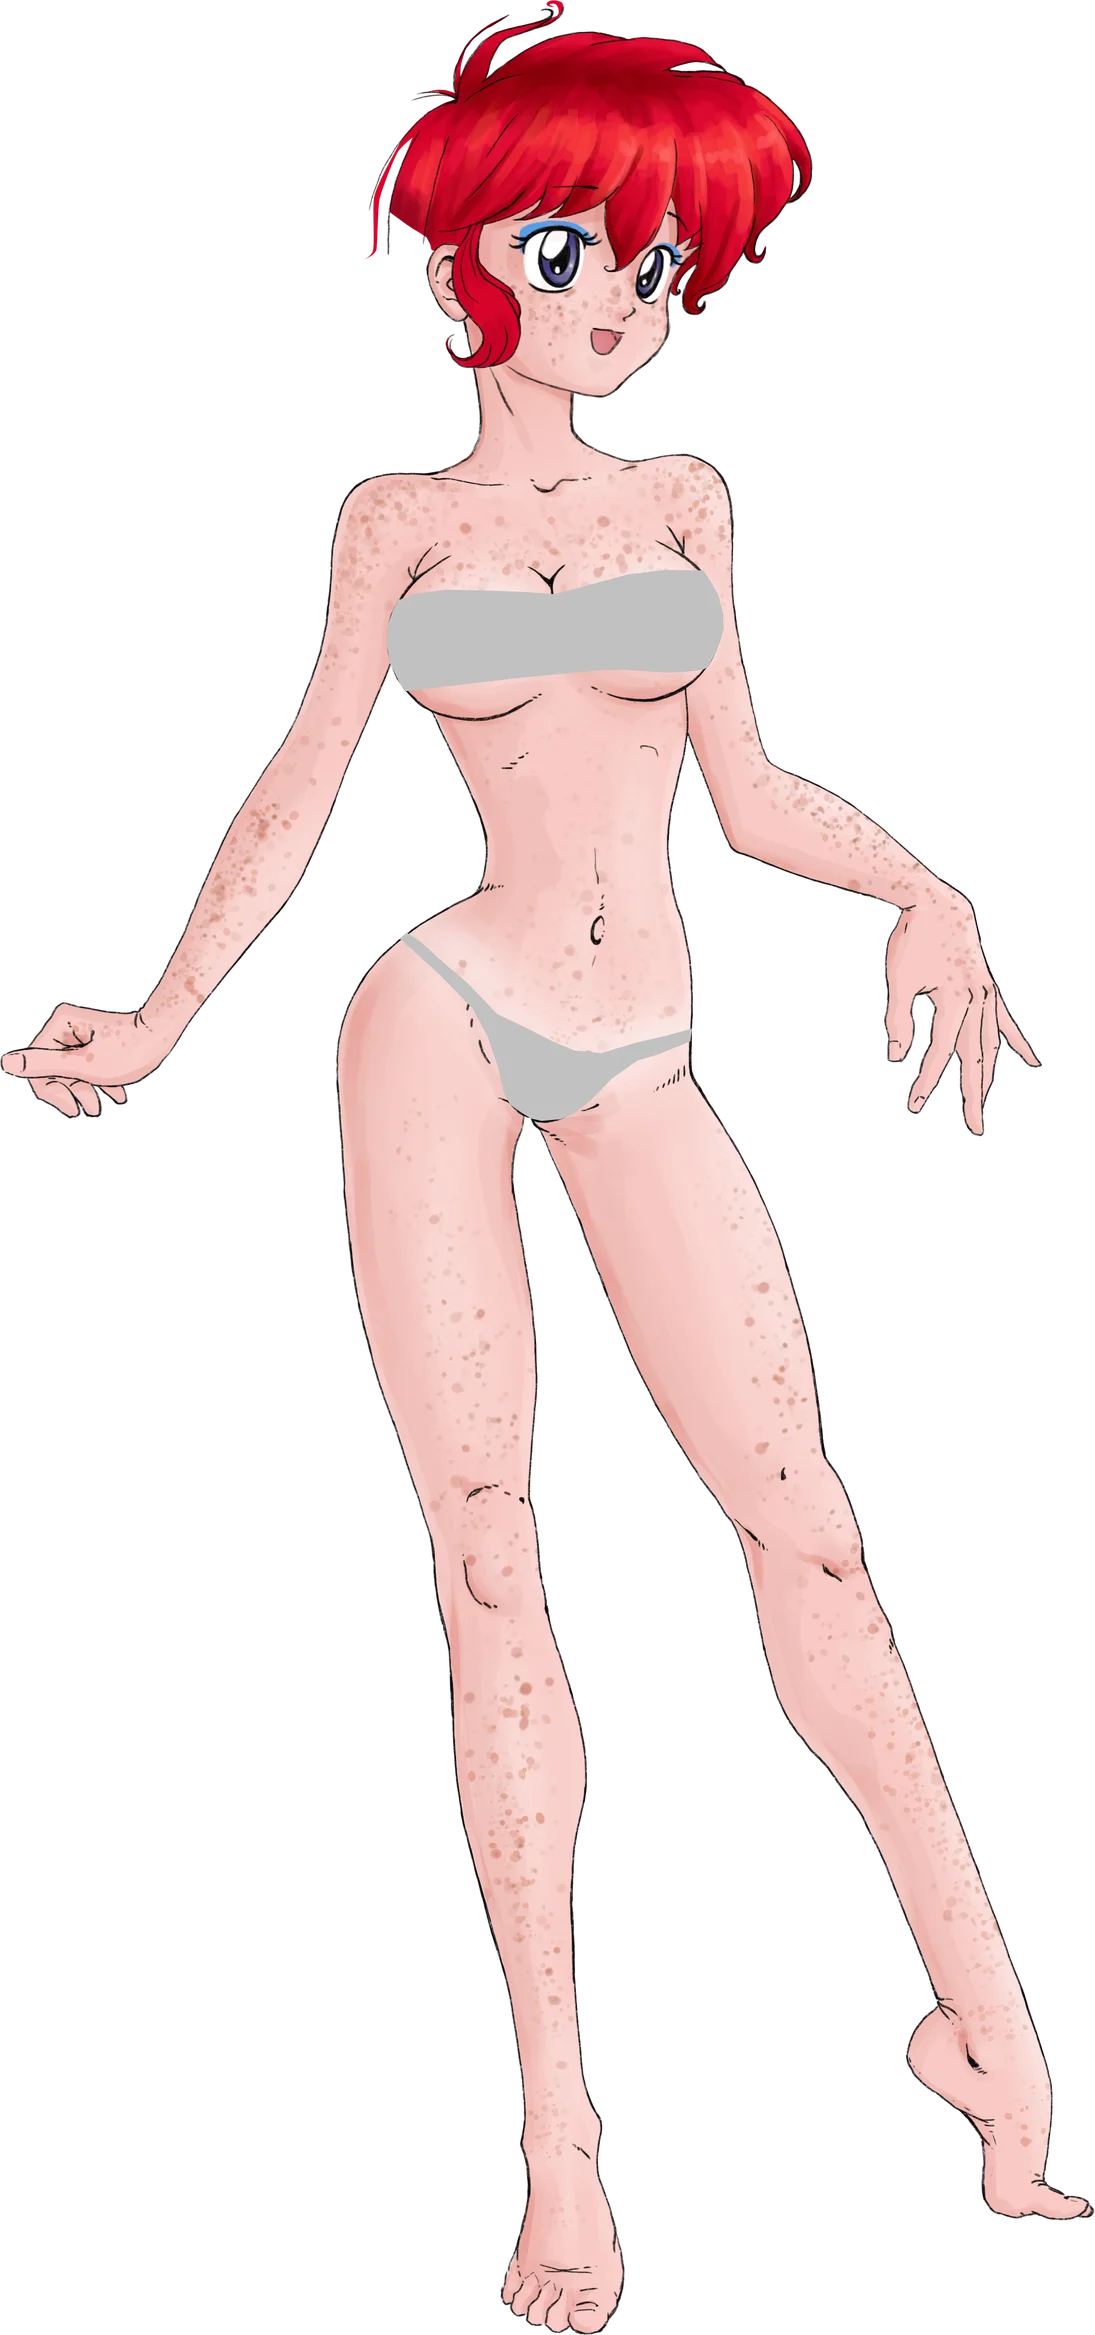
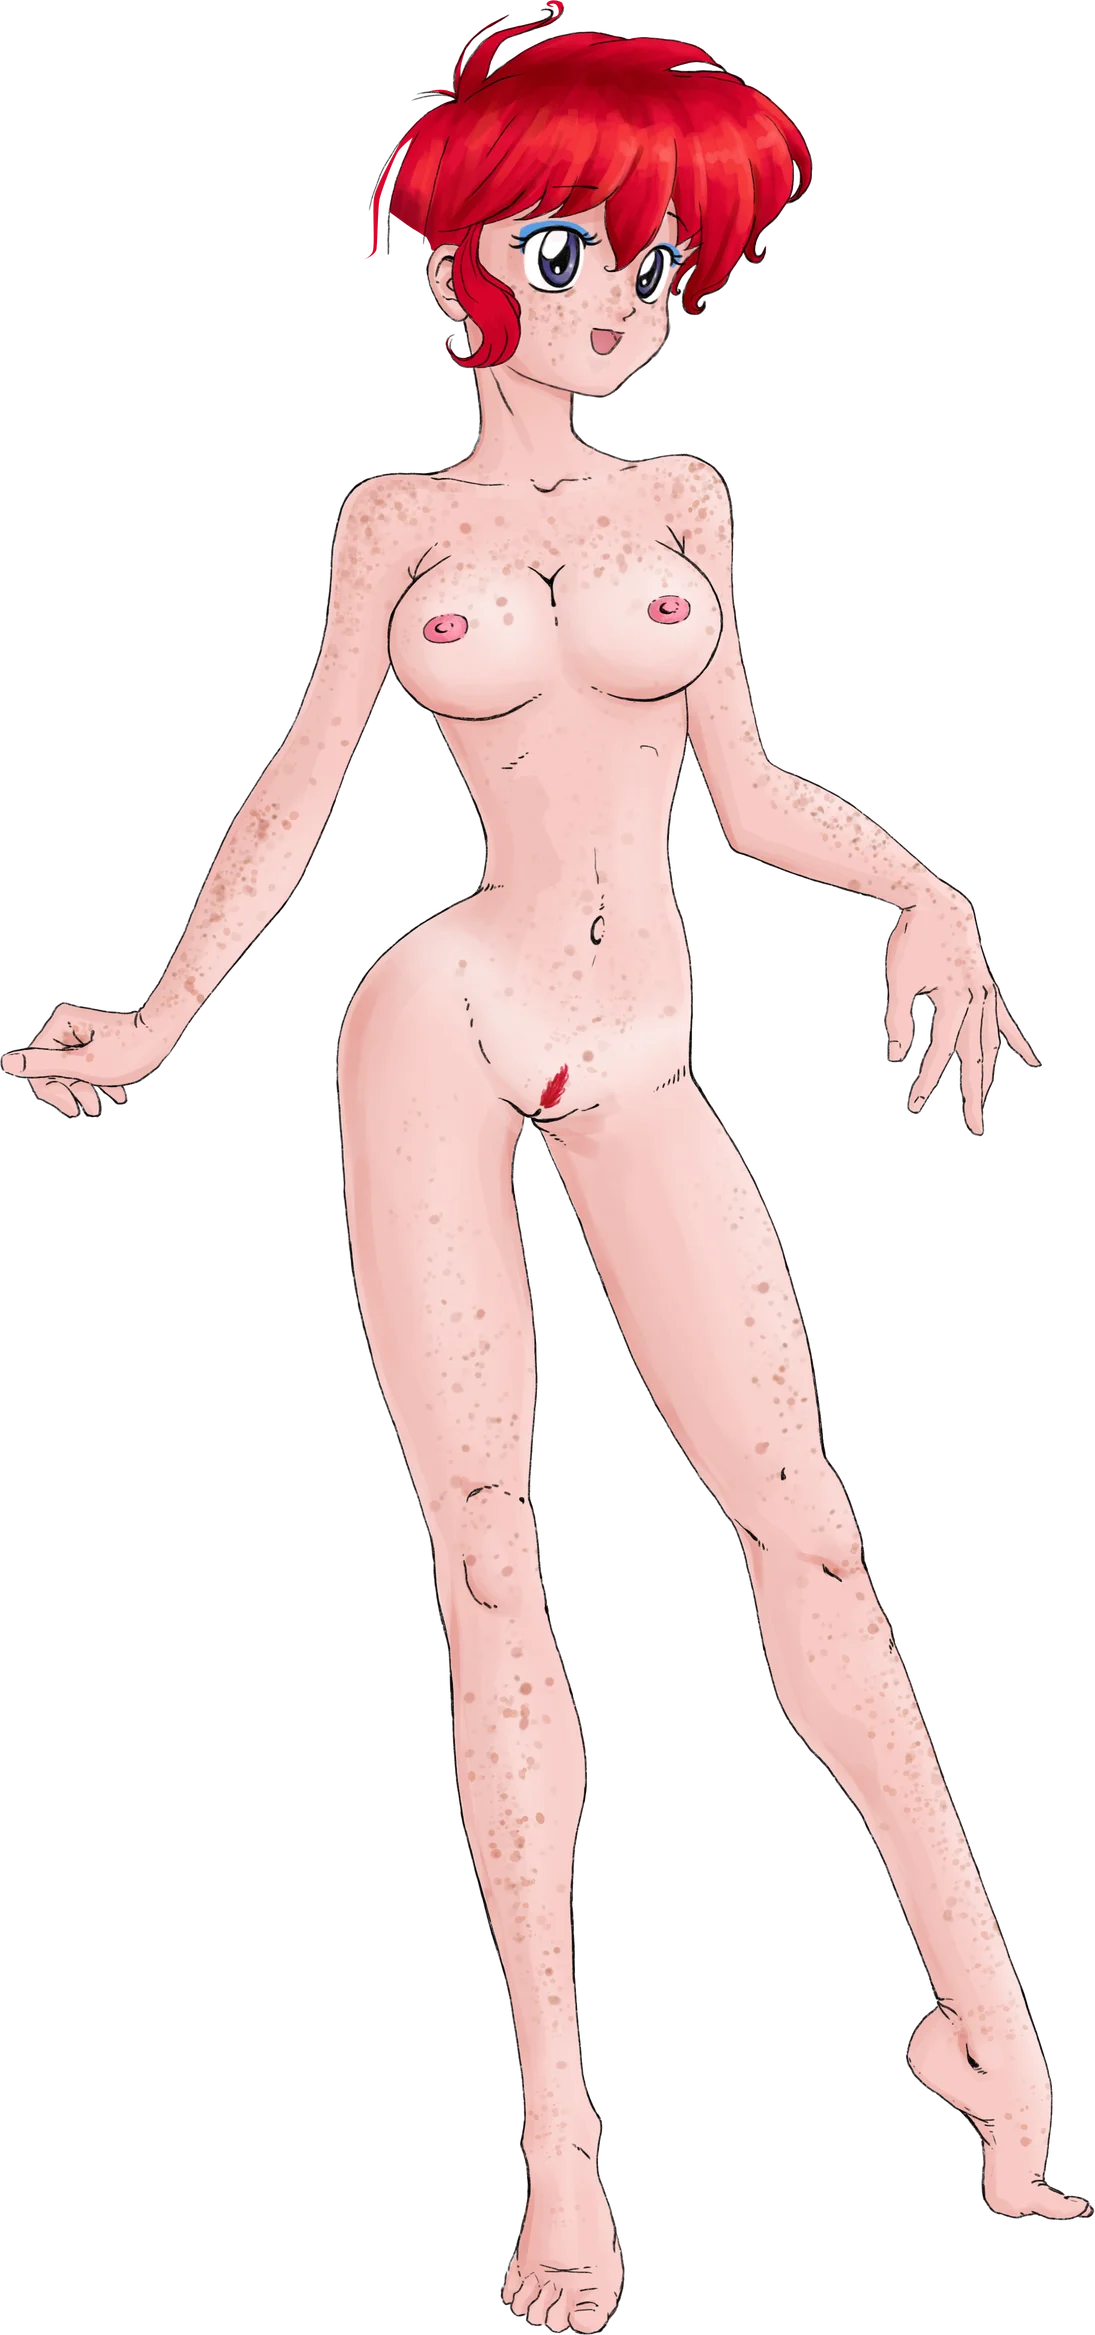
Update sprite assets and manifest with new body images

Changed region(s): [[0.3416, 0.2467, 0.6831, 0.3084], [0.4347, 0.4317, 0.621, 0.4934], [0.3726, 0.4009, 0.4347, 0.4317]]

diff --git a/src/data/sprite-manifest.ts b/src/data/sprite-manifest.ts
@@ -105,7 +105,7 @@ const spriteManifest: Types.SpriteManifest = {
       "y": 1070,
       "width": 2190,
       "height": 4670,
-      "sourceHash": "55fe9895656ae4313c8905ce92c5d5e07bc12835"
+      "sourceHash": "98b6c4366af9e956573cf1bf666feaa5985a3256"
     },
     "assets/sprites/bodysuit009.png": {
       "file": "images/optimized/bodysuit009.webp",
